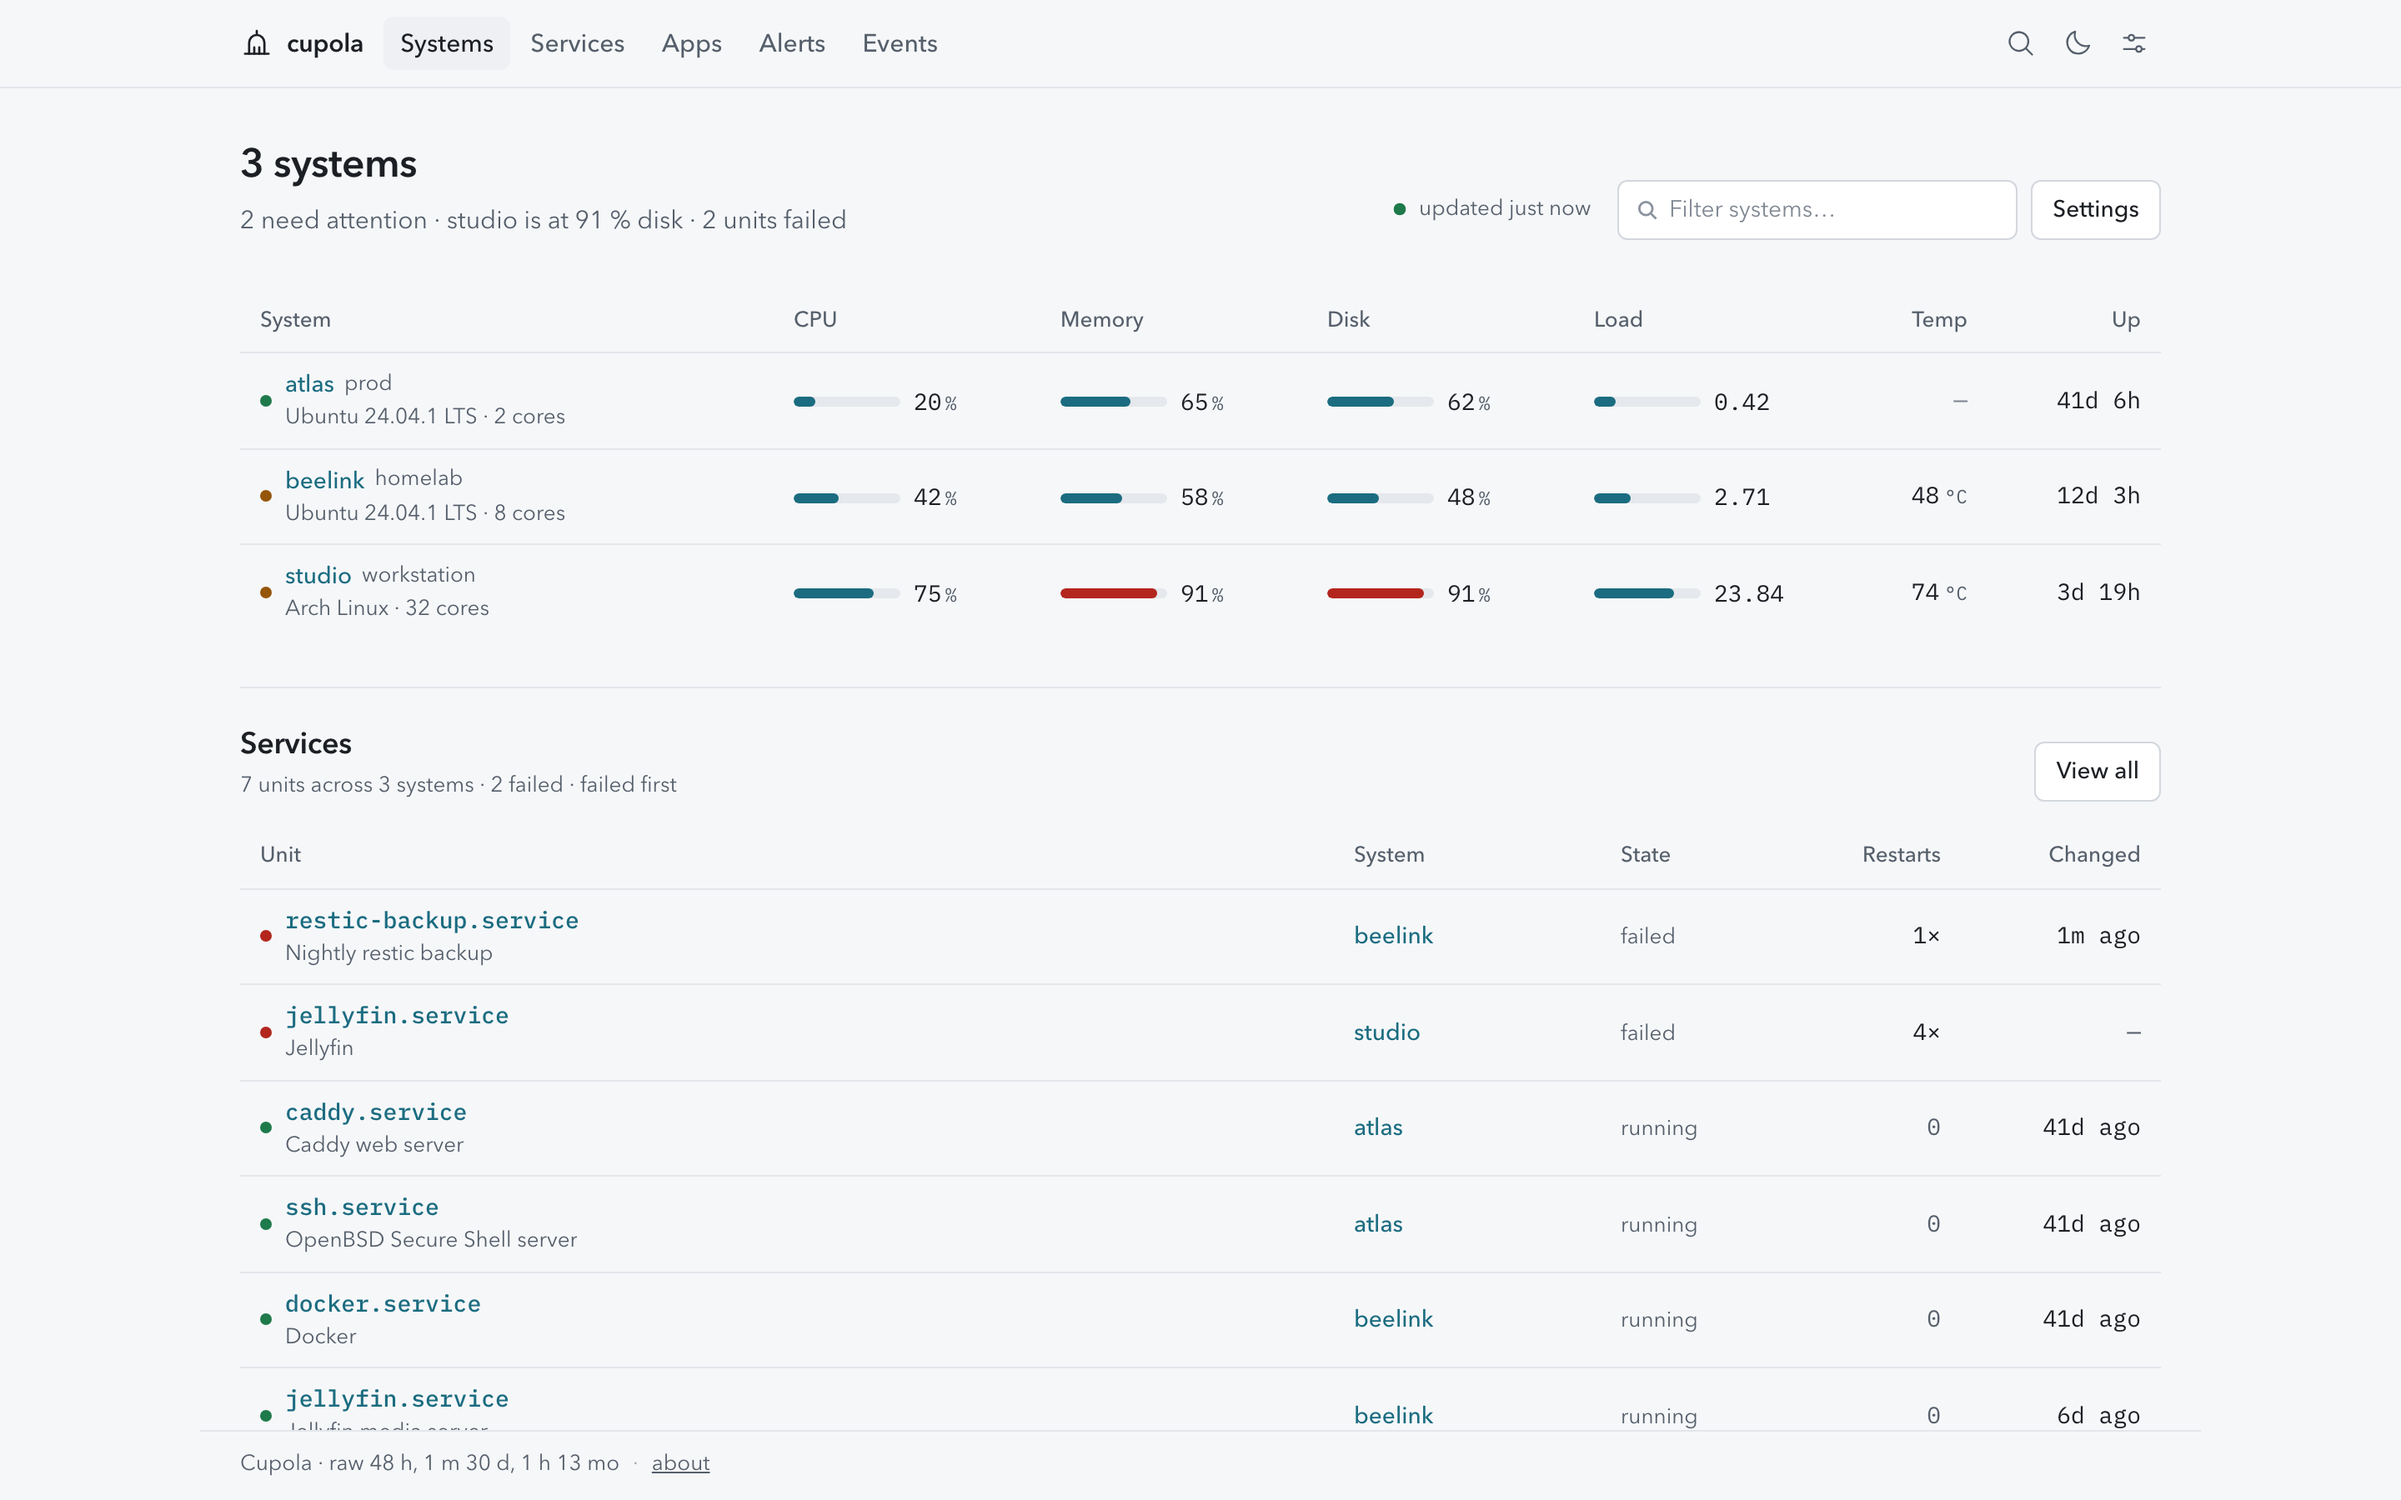
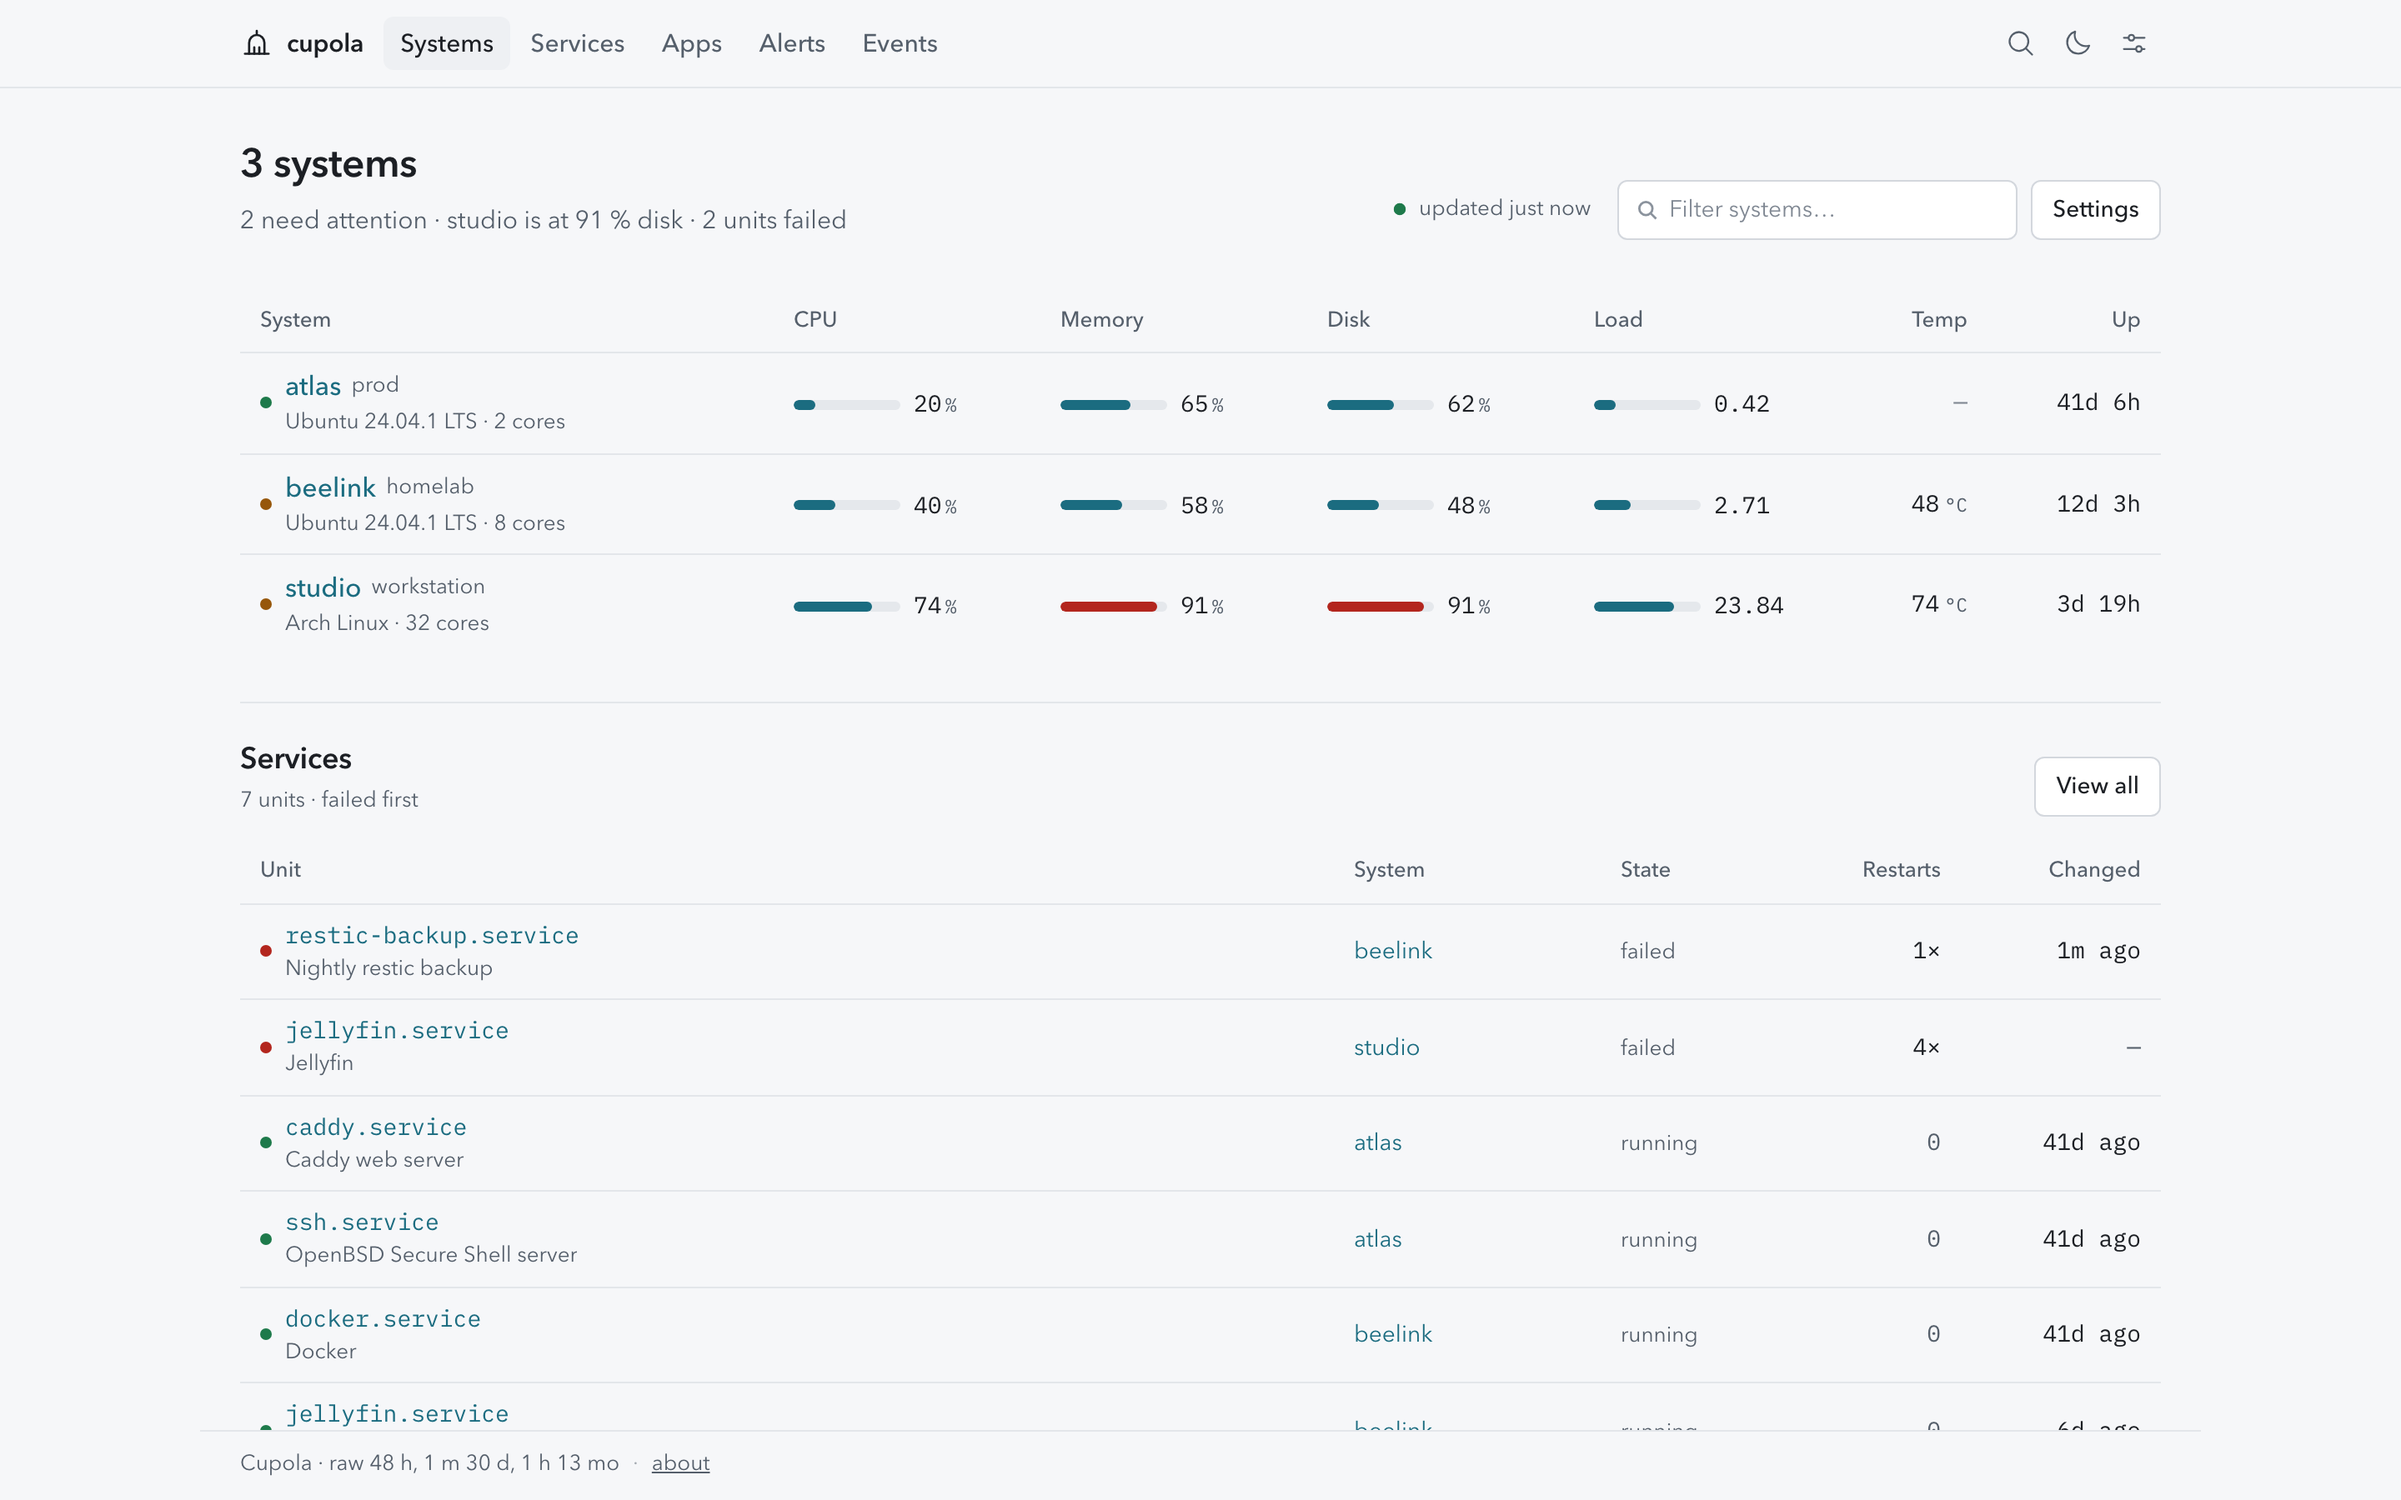
fix(web): medium only for the identity that matters, less repeated copy
- The node name in the systems table is the row's subject: 16 px, medium.
  Unit names and every other table link go back to regular; medium on mono
  identifiers only made the services list heavy.
- Home: the services band said "7 units across 3 systems · 2 failed" under a
  heading that already counted systems and failures; it now says "7 units ·
  failed first".
- Apps: the h1 counts the actions, so the list drops its "Actions" heading.
- Alerts: the h1 says how many are firing, so the KPI strip drops its Firing
  cell; when nothing fires there is one muted line instead of a heading, a
  band title and an empty-state title saying the same thing.
- Settings → Nodes: "Registered", "Install on a new machine" and "Register an
  existing agent" replace three headings built out of the word node.
- README screenshots refreshed.

diff --git a/web/src/features/alerts/AlertsPage.tsx b/web/src/features/alerts/AlertsPage.tsx
@@ -212,7 +212,6 @@ export function AlertsPage() {
       />
 
       <KpiStrip>
-        <KpiCell label="Firing" value={firingList.length} state={firingList.length > 0 ? 'error' : 'success'} note="unresolved now" />
         <KpiCell label="Rules" value={ruleList.length} note={`${enabled} enabled`} />
         <KpiCell label="Channels" value={channels.data?.length} note="delivery targets" />
         <KpiCell
@@ -224,17 +223,18 @@ export function AlertsPage() {
       </KpiStrip>
 
       <Band
-        title="Firing"
-        desc="Rules that are over their threshold right now"
-        actions={<Text type="supporting">{`${firingList.length} of ${ruleList.length} rules`}</Text>}
+        title={firingList.length > 0 ? 'Firing' : undefined}
+        desc={firingList.length > 0 ? 'Rules that are over their threshold right now' : undefined}
+        actions={
+          firingList.length > 0 ? (
+            <Text type="supporting">{`${firingList.length} of ${ruleList.length} rules`}</Text>
+          ) : undefined
+        }
       >
         {firing.isError ? (
           <ErrorPanel what="Couldn't load firing alerts." onRetry={() => void firing.refetch()} />
         ) : firingList.length === 0 ? (
-          <EmptyState
-            title="Nothing is firing"
-            description="Rules evaluate on every poll; an event rule fires as soon as its event arrives."
-          />
+          <p className="muted small">Rules evaluate on every poll; an event rule fires as soon as its event arrives.</p>
         ) : (
           <Grid columns={{ minWidth: phone ? 260 : 360, repeat: 'fit' }}>
             {firingList.map((alert) => (

diff --git a/web/src/features/apps/AppsPage.tsx b/web/src/features/apps/AppsPage.tsx
@@ -18,7 +18,6 @@ import {
   StatusDot,
   Table,
   Text,
-  VStack,
   type TableColumn,
 } from '../../ui/primitives';
 
@@ -244,13 +243,11 @@ export function RunsTable({
 export function RunLimits() {
   return (
     <section className="section">
-      <VStack gap={1}>
-        <Text type="label">Run limits</Text>
-        <Text type="supporting">
-          Actions run on the agent from its own config: a fixed script with no shell and no arguments, or a Wake-on-LAN
-          packet. One run per action, 60 s timeout, output truncated to 8 KiB. The hub cannot create or edit them.
-        </Text>
-      </VStack>
+      <h3 className="section-title">Run limits</h3>
+      <p className="muted small">
+        Actions run on the agent from its own config: a fixed script with no shell and no arguments, or a Wake-on-LAN
+        packet. One run per action, 60 s timeout, output truncated to 8 KiB. The hub cannot create or edit them.
+      </p>
     </section>
   );
 }
@@ -285,7 +282,7 @@ export function AppsPage() {
   return (
     <>
       <PageHead title={`${all.length} ${all.length === 1 ? 'action' : 'actions'}`} desc={desc} />
-      <Band title="Actions" desc="Defined in each agent's config; the hub only runs them" first>
+      <Band first>
         {all.length === 0 ? (
           <EmptyState
             title="No action is configured"

diff --git a/web/src/features/settings/NodesSettings.tsx b/web/src/features/settings/NodesSettings.tsx
@@ -267,7 +267,7 @@ function JoinBand() {
 
   return (
     <Band
-      title="Add a system"
+      title="Install on a new machine"
       desc={
         issued
           ? `Code expires ${clock(issued.expires)} UTC`
@@ -467,7 +467,7 @@ export function NodesSettingsPage() {
 
   return (
     <SettingsPage>
-      <Band title="Nodes" desc={fleet.data ? `${nodes.length} registered` : undefined} first>
+      <Band title="Registered" desc={fleet.data ? `${nodes.length} ${nodes.length === 1 ? 'node' : 'nodes'}` : undefined} first>
         <Notice message={message} />
         {fleet.isLoading ? (
           <LoadingRows rows={3} columns={5} />
@@ -483,7 +483,7 @@ export function NodesSettingsPage() {
       {admin ? <JoinBand /> : null}
 
       {admin ? (
-        <Band title="Add a node" desc="For an agent that is already installed and has its own token">
+        <Band title="Register an existing agent" desc="The agent is installed and has its own token">
           <Two>
             <form
               noValidate

diff --git a/web/src/features/overview/OverviewPage.tsx b/web/src/features/overview/OverviewPage.tsx
@@ -52,7 +52,7 @@ function SystemName({ view }: { view: NodeView }) {
   const role = roleOf(view);
   return (
     <HStack gap={1.5} vAlign="center">
-      <Link href={nodeHref(view.node.id)} maxLines={1}>
+      <Link href={nodeHref(view.node.id)} maxLines={1} className="node-link">
         {view.node.name}
       </Link>
       {role ? (
@@ -283,7 +283,7 @@ export function OverviewPage() {
         desc={
           services.isPending
             ? 'Loading units…'
-            : `${units.length} units across ${nodes.length} systems · ${failed} failed · failed first`
+            : `${units.length} units · failed first`
         }
         actions={<Button label="View all" href="/services" />}
       >

diff --git a/web/src/styles/cupola.css b/web/src/styles/cupola.css
@@ -761,7 +761,9 @@ table.table tbody tr.is-hover:hover {
   background: var(--well);
 }
 
-table.table td a {
+/* the node a systems row is read by: the one identity that carries weight */
+a.node-link {
+  font-size: 16px;
   font-weight: 500;
 }
 
